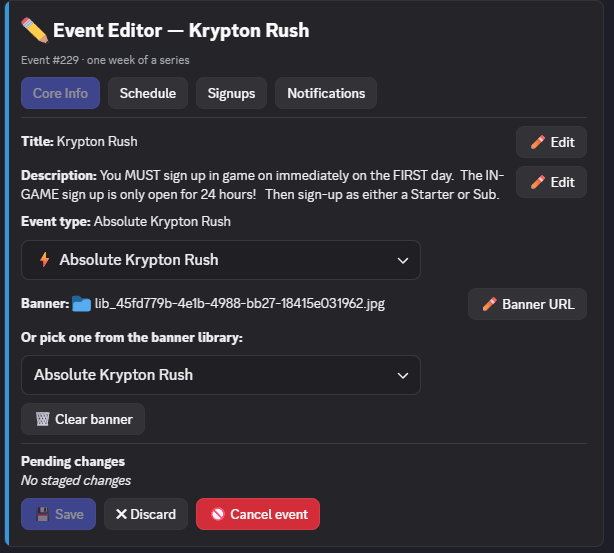
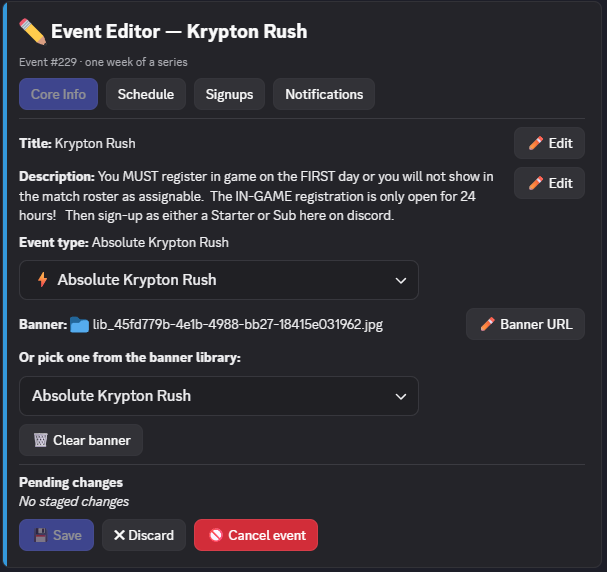
fixed core issue screenshot

diff --git a/index.html b/index.html
@@ -46,7 +46,7 @@ description: "A Discord bot for gaming guilds and leagues: events and sign-ups, 
     </div>
     <div class="editor-shots">
       <figure class="shot">
-        <div class="frame"><img src="/images/editor-core.png" width="614" height="553" loading="lazy" alt="The event editor's Core Info tab: title, description, event type and a banner picked from the banner library."></div>
+        <div class="frame"><img src="/images/editor-core.png" width="607" height="572" loading="lazy" alt="The event editor's Core Info tab: title, description, event type and a banner picked from the banner library."></div>
         <figcaption><strong>Core info.</strong> Title, description, the event type and a banner from your library.</figcaption>
       </figure>
       <figure class="shot">
